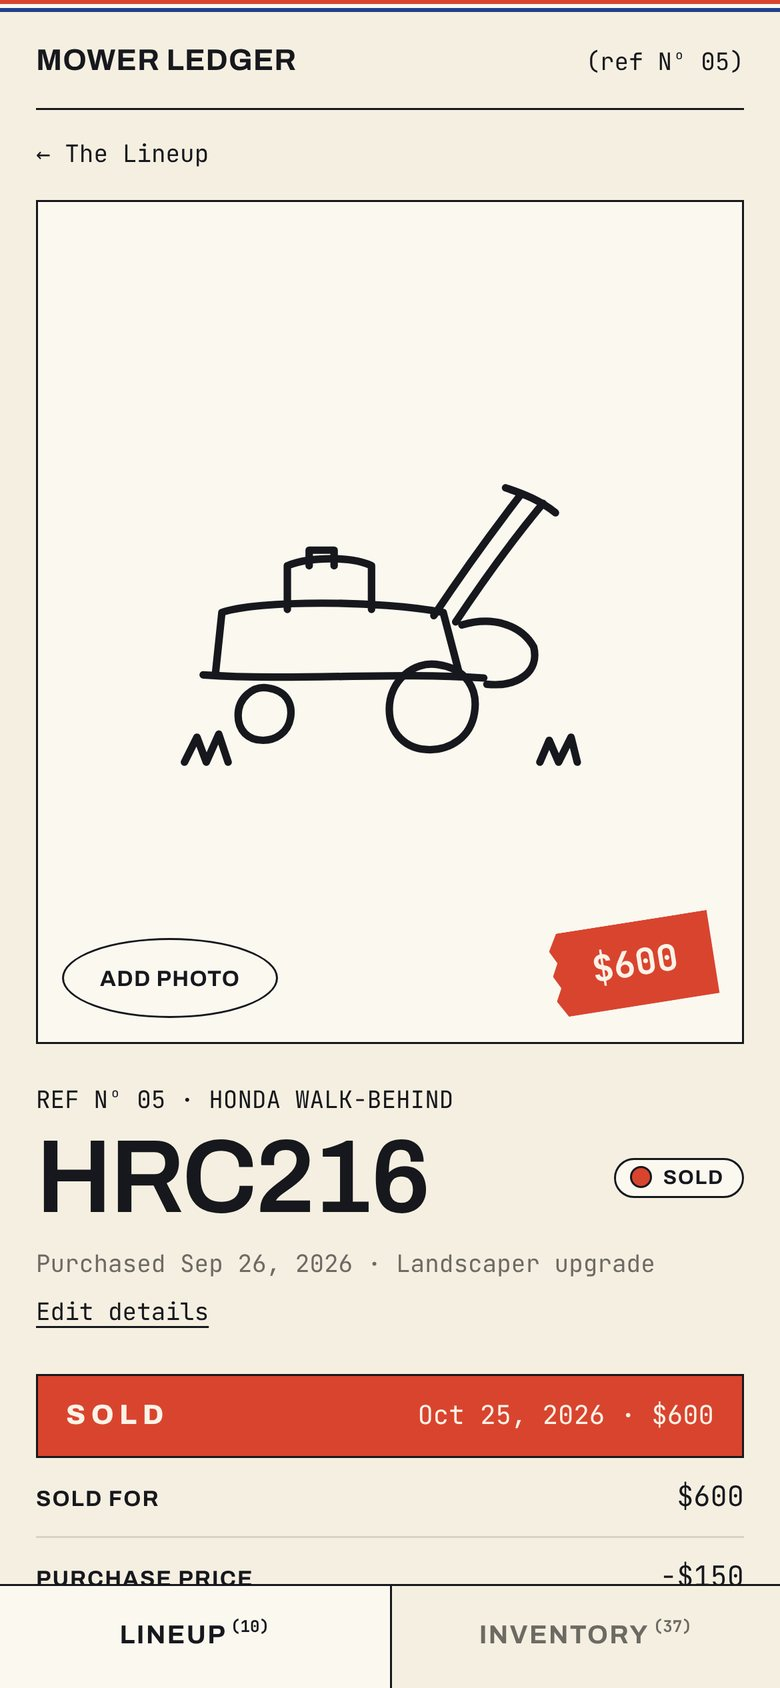
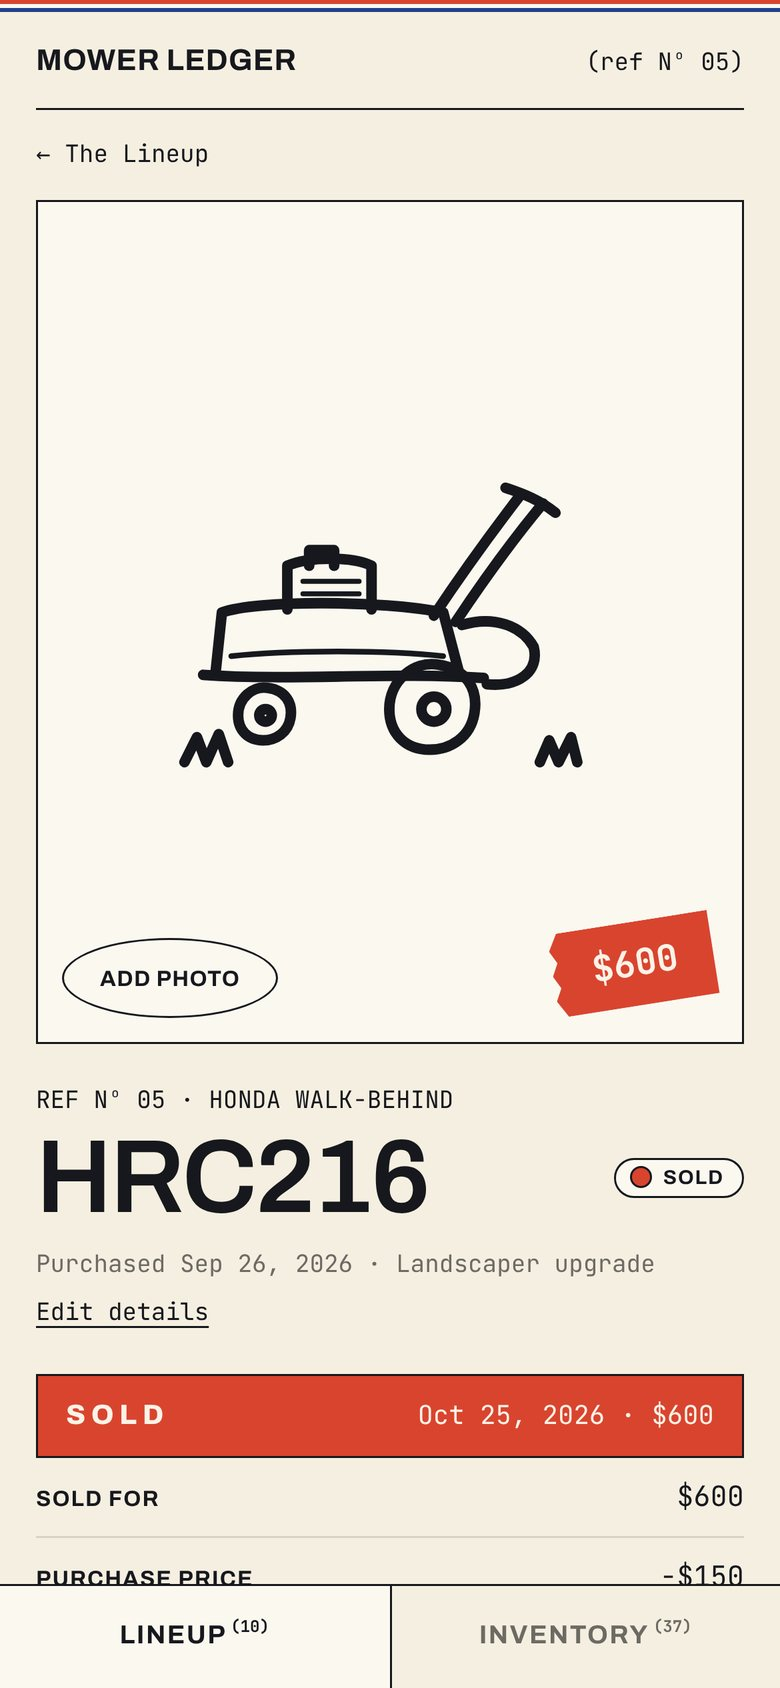
Mower Ledger screenshots with the redrawn doodles
Claude-Session: https://claude.ai/code/session_015WQEqQiMFvincPxCz7zSVQ

Changed region(s): [[0.2462, 0.2773, 0.7077, 0.4621], [0.6769, 0.4313, 0.7385, 0.4621], [0.6462, 0.3697, 0.7077, 0.4005]]

diff --git a/mower.html b/mower.html
@@ -57,9 +57,9 @@
     <p class="textlinks"><a href="https://mower-ledger.vercel.app/demo" target="_blank" rel="noopener">Try the demo, with sample mowers</a></p>
 
     <div class="shots">
-      <figure><img src="img/mower-lineup.jpg?v=3" alt="The home screen, titled The Lineup: total profit of $1,521.50 across 5 sales, 5 mowers in inventory (3 listed, 2 in the shop) with $386.85 tied up, and a red ticker of recent sales." loading="lazy"><figcaption>The lineup: profit first</figcaption></figure>
-      <figure><img src="img/mower-sold.jpg?v=3" alt="A sold mower's page: a line-drawn mower with a red $600 price-gun sticker, model HRC216, a red SOLD band dated Oct 25, and the start of its profit breakdown." loading="lazy"><figcaption>Every mower is a spec sheet</figcaption></figure>
-      <figure><img src="img/mower-inventory.jpg?v=3" alt="The Inventory page, framed by line-drawn tools on a pegboard: $179.65 on hand, and air filters at $4.25 a piece." loading="lazy"><figcaption>Inventory, costed per piece</figcaption></figure>
+      <figure><img src="img/mower-lineup.jpg?v=4" alt="The home screen, titled The Lineup: total profit of $1,521.50 across 5 sales, 5 mowers in inventory (3 listed, 2 in the shop) with $386.85 tied up, and a red ticker of recent sales." loading="lazy"><figcaption>The lineup: profit first</figcaption></figure>
+      <figure><img src="img/mower-sold.jpg?v=4" alt="A sold mower's page: a line-drawn mower with a red $600 price-gun sticker, model HRC216, a red SOLD band dated Oct 25, and the start of its profit breakdown." loading="lazy"><figcaption>Every mower is a spec sheet</figcaption></figure>
+      <figure><img src="img/mower-inventory.jpg?v=4" alt="The Inventory page, framed by line-drawn tools on a pegboard: $179.65 on hand, and air filters at $4.25 a piece." loading="lazy"><figcaption>Inventory, costed per piece</figcaption></figure>
     </div>
 
     <hr class="rule">
@@ -102,9 +102,9 @@
     </div>
 
     <div class="shots">
-      <figure><img src="img/mower-part-prompt.jpg?v=3" alt="The Log work sheet for New air filter, asking where the part came from: from inventory, bought for this job, or had it already. Air filter from inventory is selected, 18 on hand at $4.25." loading="lazy"><figcaption>A part job asks where the part came from</figcaption></figure>
-      <figure><img src="img/mower-worklog.jpg?v=3" alt="A mower's status set to sold, its listing sites, condition at purchase, and a work log where each job shows its cost: wheels $48, oil change $7, spark plug $3.80." loading="lazy"><figcaption>The work log carries its own costs</figcaption></figure>
-      <figure><img src="img/mower-books.jpg?v=3" alt="Records on a pale blue band, biggest profit and best return of 411%, then The Books: sales $2,130, mowers bought, inventory bought, other expenses, net cash +$955 and still holding $566.50." loading="lazy"><figcaption>Records and the books</figcaption></figure>
+      <figure><img src="img/mower-part-prompt.jpg?v=4" alt="The Log work sheet for New air filter, asking where the part came from: from inventory, bought for this job, or had it already. Air filter from inventory is selected, 18 on hand at $4.25." loading="lazy"><figcaption>A part job asks where the part came from</figcaption></figure>
+      <figure><img src="img/mower-worklog.jpg?v=4" alt="A mower's status set to sold, its listing sites, condition at purchase, and a work log where each job shows its cost: wheels $48, oil change $7, spark plug $3.80." loading="lazy"><figcaption>The work log carries its own costs</figcaption></figure>
+      <figure><img src="img/mower-books.jpg?v=4" alt="Records on a pale blue band, biggest profit and best return of 411%, then The Books: sales $2,130, mowers bought, inventory bought, other expenses, net cash +$955 and still holding $566.50." loading="lazy"><figcaption>Records and the books</figcaption></figure>
     </div>
 
     <hr class="rule">
@@ -141,8 +141,8 @@
     </ul>
 
     <div class="shots">
-      <figure><img src="img/mower-gallery.jpg?v=3" alt="The gallery: line-drawn mowers in square frames with status tags and blue and red price stickers, labelled by model number." loading="lazy"><figcaption>The gallery</figcaption></figure>
-      <figure><img src="img/mower-sold-moment.jpg?v=3" alt="The sold moment: a red price-gun sticker reading SOLD $240 with the profit, red, white and blue paper falling, and the doodle mower driving across the screen." loading="lazy"><figcaption>The sold moment</figcaption></figure>
+      <figure><img src="img/mower-gallery.jpg?v=4" alt="The gallery: line-drawn mowers in square frames with status tags and blue and red price stickers, labelled by model number." loading="lazy"><figcaption>The gallery</figcaption></figure>
+      <figure><img src="img/mower-sold-moment.jpg?v=4" alt="The sold moment: a red price-gun sticker reading SOLD $240 with the profit, red, white and blue paper falling, and the doodle mower driving across the screen." loading="lazy"><figcaption>The sold moment</figcaption></figure>
     </div>
 
     <hr class="rule">
